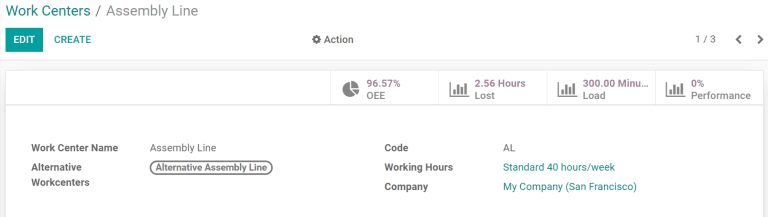
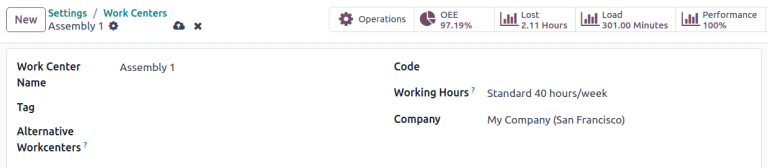
[IMP] Manufacturing - rewrite for UI changes, recapture images, and add use case.
Apply suggestions from code review

fix

dfsdf

Apply suggestions from code review

More fixes

dfskldjf

fix

dfsd

Fix internal link format

diff --git a/content/applications/inventory_and_mrp/manufacturing/advanced_configuration/using_work_centers.rst b/content/applications/inventory_and_mrp/manufacturing/advanced_configuration/using_work_centers.rst
@@ -1,81 +1,132 @@
-=====================================
-Manage work orders using work centers
-=====================================
+============
+Work centers
+============
 
-Odoo Manufacturing allows for work orders to be carried out at specific work centers. When a
-manufacturing order is created for a product, any work orders listed in the :guilabel:`Operations`
-tab of the product bill of materials (BoM) will be automatically created as well and assigned to the
-specified work center. Work orders can be managed in the :guilabel:`Manufacturing` module by
-selecting :menuselection:`Operations --> Work Orders`.
+*Work centers* are where **Manufacturing** work orders are processed, and can be used to track
+costs, make schedules, plan capacity, organize equipment, and track efficiency. Specifying a work
+center is required when a work order is defined in the *Operations* tab of a bill of materials (BoM)
+for a product.
 
-In order to use work centers, the :guilabel:`Work Orders` feature must first be enabled. To do so,
-go to the :guilabel:`Manufacturing` module, select :menuselection:`Configuration --> Settings`, and
-activate the checkbox next to :guilabel:`Work Orders`. Work centers can then be created and managed
-by selecting :menuselection:`Configuration --> Work Centers`.
+.. important::
+   Work centers only appear if the :guilabel:`Work Orders` setting is enabled. To do so, navigate to
+   :menuselection:`Manufacturing app --> Configuration --> Settings`, then tick the :guilabel:`Work
+   Orders` checkbox. Work orders can be managed in the :guilabel:`Manufacturing` app by selecting
+   :menuselection:`Operations --> Work Orders`.
 
-Create a work center
-====================
+.. seealso::
+   :doc:`../basic_setup/bill_configuration`
 
-Within the :guilabel:`Manufacturing` module, select :menuselection:`Configuration --> Work Centers
---> Create`. The work center form can then be filled out as follows:
-
-- :guilabel:`Work Center Name`: give the work center a concise name that describes the type of
-  operations it will be used for
-- :guilabel:`Alternative Workcenters`: specify an alternative work center for operations to be
-  carried out at if the main work center is not available
-- :guilabel:`Code`: assign the work center a reference code
-- :guilabel:`Working Hours`: define the number of hours that the work center can be in use each week
-- :guilabel:`Company`: select the company that the work center belongs to
-
-.. image:: using_work_centers/work-center-form.png
-   :align: center
-   :alt: An example of a fully configured work center form.
+Work center configuration
+=========================
 
 .. _manufacturing/management/using_work_centers/wc-setup:
 
-Set standards for work center productivity
-------------------------------------------
+Create a new work center
+------------------------
 
-The :guilabel:`General Information` tab on the work center form allows for productivity goals to be
-assigned to a work center:
+In the **Manufacturing** app, select :menuselection:`Configuration --> Work Centers` and click the
+:guilabel:`New` button to open a new work center form.
 
-- :guilabel:`Time Efficiency`: used to calculate the expected duration of a work order at the work
-  center; for example, if a work order normally takes one hour and the efficiency is set to 200%,
-  the work order will take 30 minutes
-- :guilabel:`Capacity`: the number of products that can be processed at the work center
-  simultaneously
-- :guilabel:`OEE Target`: the target for efficiency at the work center
-- :guilabel:`Time before prod.`: setup time required before work can commence
-- :guilabel:`Time after prod.`: breakdown or cleanup time required after work is finished
-- :guilabel:`Cost per hour`: the cost of operating the work center for one hour
-- :guilabel:`Analytic Account`: the account where the cost of the work center should be recorded
+.. image:: using_work_centers/work-center-form.png
+   :alt: An example of a fully configured work center form.
 
-.. image:: using_work_centers/work-center-general-information.png
-   :align: center
-   :alt: The general information tab of the work center form.
+- :guilabel:`Work Center Name`: the label for the work center used to select it on a work order or
+  on the reporting dashboards
+- :guilabel:`Tag`: reusable labels that can be used to sort work centers in list view
 
-Assign equipment to a work center
----------------------------------
+- :guilabel:`Alternative Workcenters`: where a work order should be carried out if this work center
+  is not available
 
-Using the :guilabel:`Equipment` tab, it is possible for specific pieces of equipment to be assigned
-to a work center. The following information will be displayed for each piece of equipment added:
+- :guilabel:`Code`: reference id for the work center that is displayed in the list view
+- :guilabel:`Working Hours`: the hours that work center can be used during the week
 
-- :guilabel:`Equipment Name`: the name of the piece of equipment
-- :guilabel:`Technician`: the technician responsible for servicing the equipment
-- :guilabel:`Equipment Category`: the category the equipment belongs to
-- :guilabel:`MTBF`: mean time between failures; the average time that the piece of equipment will
-  operate before failing
-- :guilabel:`MTTR`: mean time to recovery; the average time it takes for the equipment to become
-  fully operational again
-- :guilabel:`Est. Next Failure`: an estimate of when the next equipment failure will occur
+.. _manufacturing/management/using_work_centers/working-hours:
 
-.. image:: using_work_centers/work-center-equipment.png
-   :align: center
-   :alt: The equipment tab of the work center form.
+Working hours
+~~~~~~~~~~~~~
+
+*Working hours* define when a work center should operate, based on a one- or two-week schedule.
+These hours also form the basis for calculating *overall equipment efficiency* (OEE).
 
 .. note::
-    :guilabel:`MTBF`, :guilabel:`MTTR`, and :guilabel:`Est. Next Failure` are all calculated
-    automatically based on past failure data, if any exists.
+   By default, Odoo uses the `Standard 40 hours/week` working hours, which expects work centers to
+   operate between 8:00 AM and 5:00 PM on Monday through Friday.
+
+To change the working hours, hover over the current :guilabel:`Working Hours` value and click the
+:icon:`fa-arrow-right` (:guilabel:`Internal link`) icon to open the working hours form.
+
+.. image:: using_work_centers/working-hours-form.png
+   :alt: The working hours form for Standard 40 hours/week.
+
+To create a new set of working hours, click the :guilabel:`New` button and give it a name. From
+here, edit any :guilabel:`Work from` or :guilabel:`Work to` value to adjust the time range. Remove a
+line by clicking click the :icon:`fa-trash-o` :guilabel:`(trash)` icon. To create a new time range,
+click :guilabel:`Add a line` at the bottom of the list.
+
+.. seealso::
+   - :doc:`../reporting/oee`
+   - :doc:`../workflows/work_center_time_off`
+
+Set productivity standards and allowed employees
+------------------------------------------------
+
+The :guilabel:`General Information` tab on the work center form allows for productivity goals to be
+assigned to a work center. These are used as the basis for calculating how much of the potential
+time the work center is being used and its operating costs.
+
+.. image:: using_work_centers/work-center-general-information.png
+   :alt: The general information tab of the work center form.
+
+- :guilabel:`Time Efficiency`: a multiplier for how using this work center affects the normal speed
+  of execution of a work order
+
+   .. example::
+      If a work center has older equipment and work orders take twice as long to produce, the `Time
+      Efficiency` would be `50.00%`.
+
+- :guilabel:`Capacity`: the number of products that can be processed at the work center
+  simultaneously
+
+- :guilabel:`OEE Target`: the target for efficiency at the work center
+
+   .. example::
+      If a work center is available for `8 hours per day` but is only expected to be used for `7
+      hours per day`, the OEE would be `87.50%`. :math:`7/8*100=87.5`
+
+   .. seealso::
+      :doc:`../reporting/oee`
+
+- :guilabel:`Setup Time`: the time required before work can commence on a work order
+- :guilabel:`Cleanup Time`: breakdown or cleanup time required after a work order is finished
+- :guilabel:`Cost per hour`: the operating expense of that workstation. The :guilabel:`per employee`
+  value is for estimating the average cost per employee.
+
+   .. seealso::
+      :doc:`../basic_setup/mo_costs`
+
+- :guilabel:`Allowed Employees`: the employees who can perform work at the work center. If blank,
+  all employees are allowed.
+
+   .. example::
+      If equipment at a work center requires a certification to operate, :guilabel:`Allowed
+      Employees` could list only those employees who have the certification.
+
+Set production capacities
+-------------------------
+
+The :guilabel:`Capacity` setting on a work center creates a default value for how many units can be
+produced at one time in a work center. To specify that a work center can produce different
+quantities of different products, select the :guilabel:`Specific Capacities` tab.
+
+.. image:: using_work_centers/work-center-specific-capacities.png
+   :alt: A work center form with different capacities specified for different products.
+
+.. tip::
+  To specify production capacities in different measurements from a count of units, enable the
+  *Units of Measure* feature in the **Inventory** app.
+
+.. seealso::
+   :doc:`../../maintenance/add_new_equipment`
 
 .. _workcenter_iot:
 
@@ -90,47 +141,132 @@ with a work center:
 - :guilabel:`Action`: the IoT device action triggered
 
 .. image:: using_work_centers/work-center-iot.png
-   :align: center
    :alt: The IoT Triggers tab of the work center form.
 
-Use case: configure an alternative work center
-==============================================
+Assigning equipment to work centers
+===================================
 
-When a work center is at capacity, it cannot accept any new work orders. Instead of waiting for the
-work center to become available, it is possible to specify an alternative work center where surplus
-work orders should be carried out.
+The **Maintenance** app makes it possible to add specific equipment to a work center and
+individually track its costs and productivity. It also adds the :guilabel:`Equipment` and
+:guilabel:`Maintenance` tabs to the work center form, used to list equipment and schedule
+maintenance activities.
 
-Begin by creating a new work center. Configure the :guilabel:`Equipment` tab so that it has all of
-the same equipment as the main work center. This will ensure that the same tasks can be carried out
-at both work centers. Navigate to the main work center and include the new work center in the
-:guilabel:`Alternative Workcenters` selection field.
+.. seealso::
+   :doc:`../../maintenance/add_new_equipment`
 
-Now, create a new manufacturing order that uses the main work center for one of its operations. The
-main work center will automatically be selected for the operation in the :guilabel:`Work Orders`
-tab. After confirming the manufacturing order, click the :guilabel:`Plan` button that appears at the
-top left of the form.
+Work center planning
+====================
 
-.. image:: using_work_centers/manufacturing-order-plan-button.png
-   :align: center
-   :alt: Click the plan button to automatically select an available work center.
+The currently scheduled work orders can be viewed by accessing :menuselection:`Manufacturing app -->
+Planning --> Planning by Workcenter`.
 
-If the main work center is at capacity, the work center selected for the operation will be
-automatically changed to the alternative work center.
+.. image:: using_work_centers/work-center-planning.png
+   :alt: The Gantt view of planning showing two assembly work centers.
 
-.. image:: using_work_centers/automatic-work-center-selection.png
-   :align: center
-   :alt: The alternative work center is automatically selected.
+Different views show how many individual work orders are scheduled, how many minutes of each hour
+the work center is in production, and the dates and times that are currently scheduled for work
+orders. Times and planned work centers can be changed by clicking to access the individual work
+order.
 
-Monitor work center performance
-===============================
+Work center performance
+=======================
 
-Performance for an individual work center can be viewed by selecting
-:menuselection:`Configuration --> Work Centers`, and clicking on a work center. A variety of metrics
-showing work center performance can be viewed at the top right of the form:
+Performance for an individual work center can be viewed by selecting :menuselection:`Configuration
+--> Work Centers`, and clicking on a work center. Metrics are displayed in smart buttons at the top
+of the form.
 
-- :guilabel:`OEE`: overall effective efficiency, the percentage of time that the work center has
-  been fully productive
+.. image:: using_work_centers/work-center-smart-buttons.png
+   :alt: A work center form with smart buttons showing performance metrics.
+
+- :guilabel:`OEE`: overall equipment effectiveness, the percentage of time that the work center has
+   been productive out of its available work hours.
+
+   .. seealso::
+      - :doc:`../reporting/oee`
+
 - :guilabel:`Lost`: the amount of time lost due to work stoppages
 - :guilabel:`Load`: the amount of time it will take to complete the current workload
 - :guilabel:`Performance`: the real duration of work time, shown as a percentage of the expected
-  duration
+   duration
+
+Use case: measuring performance by shift using work centers
+===========================================================
+
+Work centers support defined working hours, enabling the tracking of production efficiency by shift.
+To configure shift-based tracking, create working hours for each of the shifts, then duplicate
+versions of each work center for each of the shifts. With this setup, comparing shift productivity
+can be done with any of the available :doc:`reporting <../../../essentials/reporting>` tools.
+
+Working hours for multiple shifts
+---------------------------------
+
+To create working hours for multiple shifts, open a work center form and in the :guilabel:`Working
+Hours` field click the :icon:`fa-arrow-right` (:guilabel:`Internal link`), and then click the
+:guilabel:`New` button to create a new set of hours for the second shift.
+
+.. example::
+   A manufacturer has two shifts: a day shift from 5 AM to 1 PM and a night shift from 1 PM to 9 PM.
+   Starting from any exist work center, edit the existing working hours to match the day shift.
+
+   .. image:: using_work_centers/example-shift-day.png
+      :alt: The working hours for a day shift
+
+   Once the day shift is saved, click the :icon:`fa-cog` :guilabel:`(cog)` icon and select
+   :guilabel:`Duplicate`. Rename this new schedule `Night Shift` and change each :guilabel:`Work
+   from` to 1 PM and :guilabel:`Work from` to 9 PM.
+
+   .. image:: using_work_centers/example-shift-night.png
+      :alt: The working hours for a night shift
+
+Work centers for multiple shifts
+--------------------------------
+
+To create the duplicate work centers, return to the work center view by navigating to
+:menuselection:`Configuration --> Work Centers` and duplicating each of the work centers that are
+used by both shifts, either on the individual work center forms, or directly from the list view.
+
+.. tip::
+   To duplicate work centers directly from the list view, click the :icon:`fa-check-square-o`
+   :guilabel:`(checkbox)` that appears above the list items to select all. Then, click the
+   :icon:`fa-cog` :guilabel:`Actions` button at the top of the list and select
+   :guilabel:`Duplicate`.
+
+.. example::
+   A manufacturer has two work centers, `Assembly Line 1` and `Assembly Line 2`, and two working
+   hours, `Day Shift` and `Night Shift`.
+
+   .. image:: using_work_centers/work-centers-with-shifts.png
+      :alt: Work centers copied for day and night shifts.
+
+  To create versions of `Assembly Line 1` and `Assembly Line 2` for each shift, duplicate each of
+  the work centers. Select the first work center and add the shift name in that work center's name
+  and assign it the appropriate working hours. Optionally, configure each work center to use its
+  opposite shift counterpart as an alternate work center to make sure that manufacturing orders get
+  assigned to both. Tags can also help make a visual distinction between each shift.
+
+   .. tip::
+      Use the :icon:`oi-chevron-left`
+      :guilabel:`(left arrow)` and :icon:`oi-chevron-right` :guilabel:`(right arrow)` buttons in the
+      top left corner to move on to the next form in the list without returning to the list view.
+
+Reports comparing different shifts
+----------------------------------
+
+With multiple work centers created to represent shifts, reports that sort by work center will now
+compare shifts. This can be used to compare the number of work orders that are being assigned each
+shift, the OEE, or actual time that each shift is taking to produce a product.
+
+.. example::
+   A report has been created to compare the time efficiency of two shifts producing the same product
+   in the same work center.
+
+   .. image:: using_work_centers/work-order-duration-deviation.png
+      :alt: A bar graph of two work centers with duration deviations of -6.50 and 15.00
+
+   To create this report, go to :menuselection:`Reporting --> Work Orders` and click to remove the
+   :icon:`fa-filter` **Ready** *or* **Waiting** *or* **Pending** *or* **In Progress** filter by
+   clicking the :icon:`fa-x` :guilabel:`Remove` icon on its right side. Next, click the
+   :guilabel:`Measures` button and select :guilabel:`Duration Deviation (%)`
+
+   In this case, the day shift has on average taken more than the expected time to produce products
+   (-6.50%) while the night shift took less than the expected time (15.00%).
